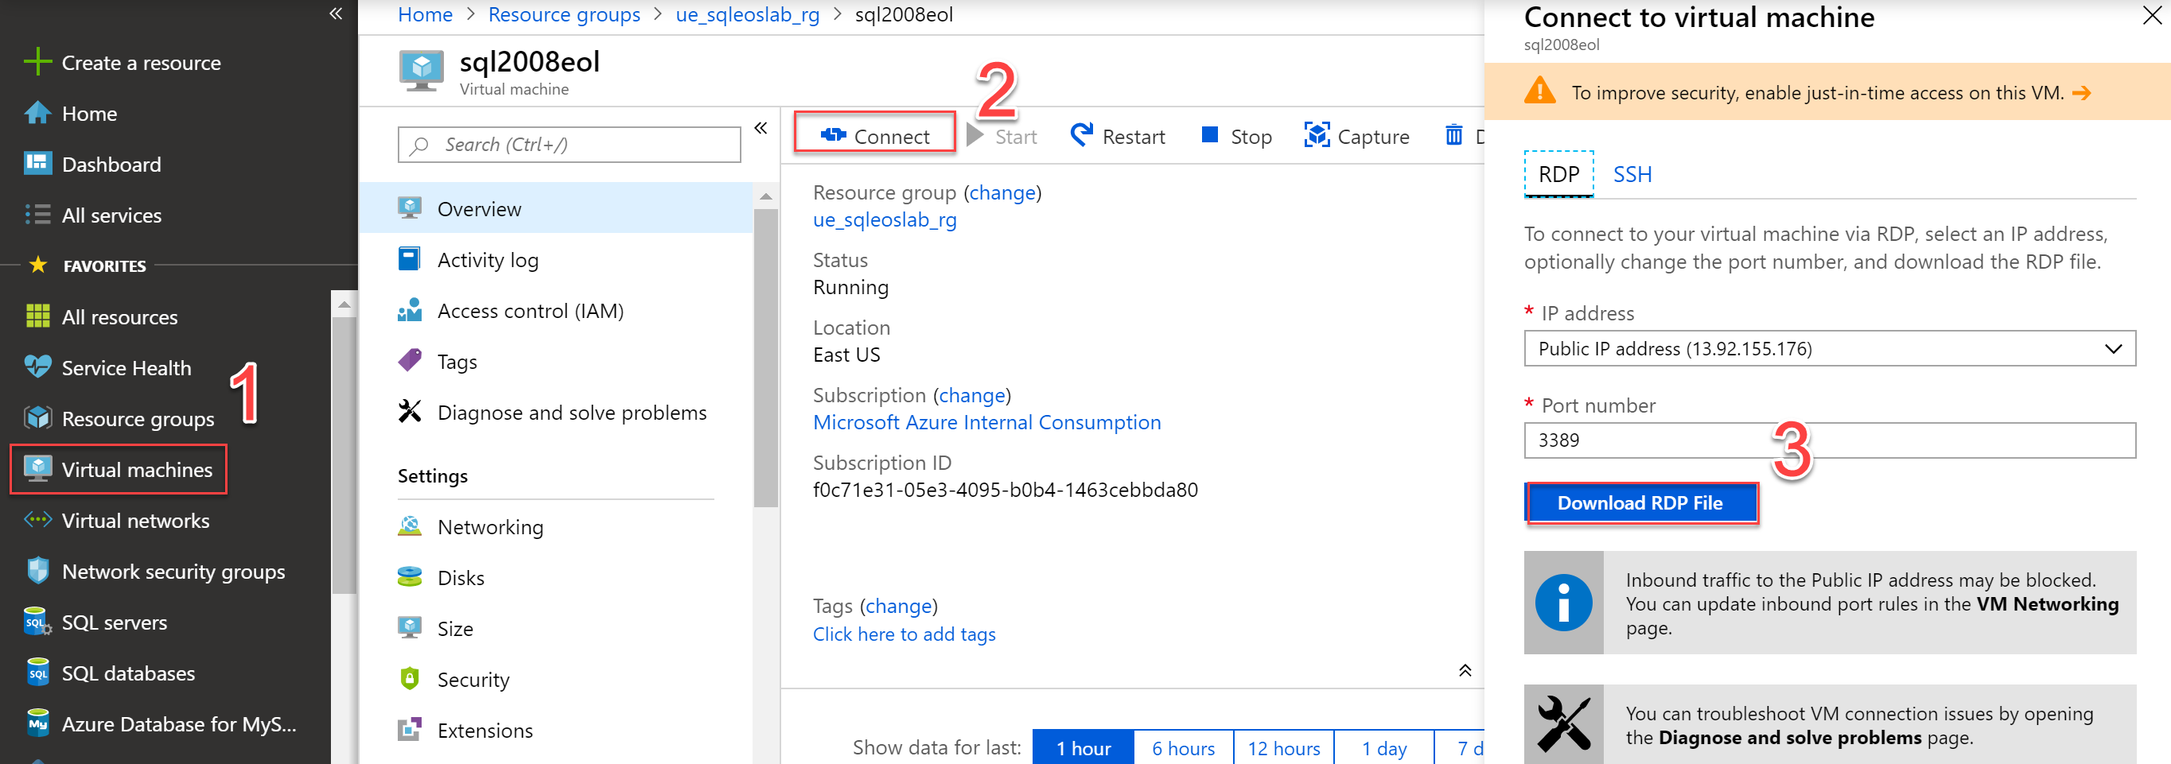
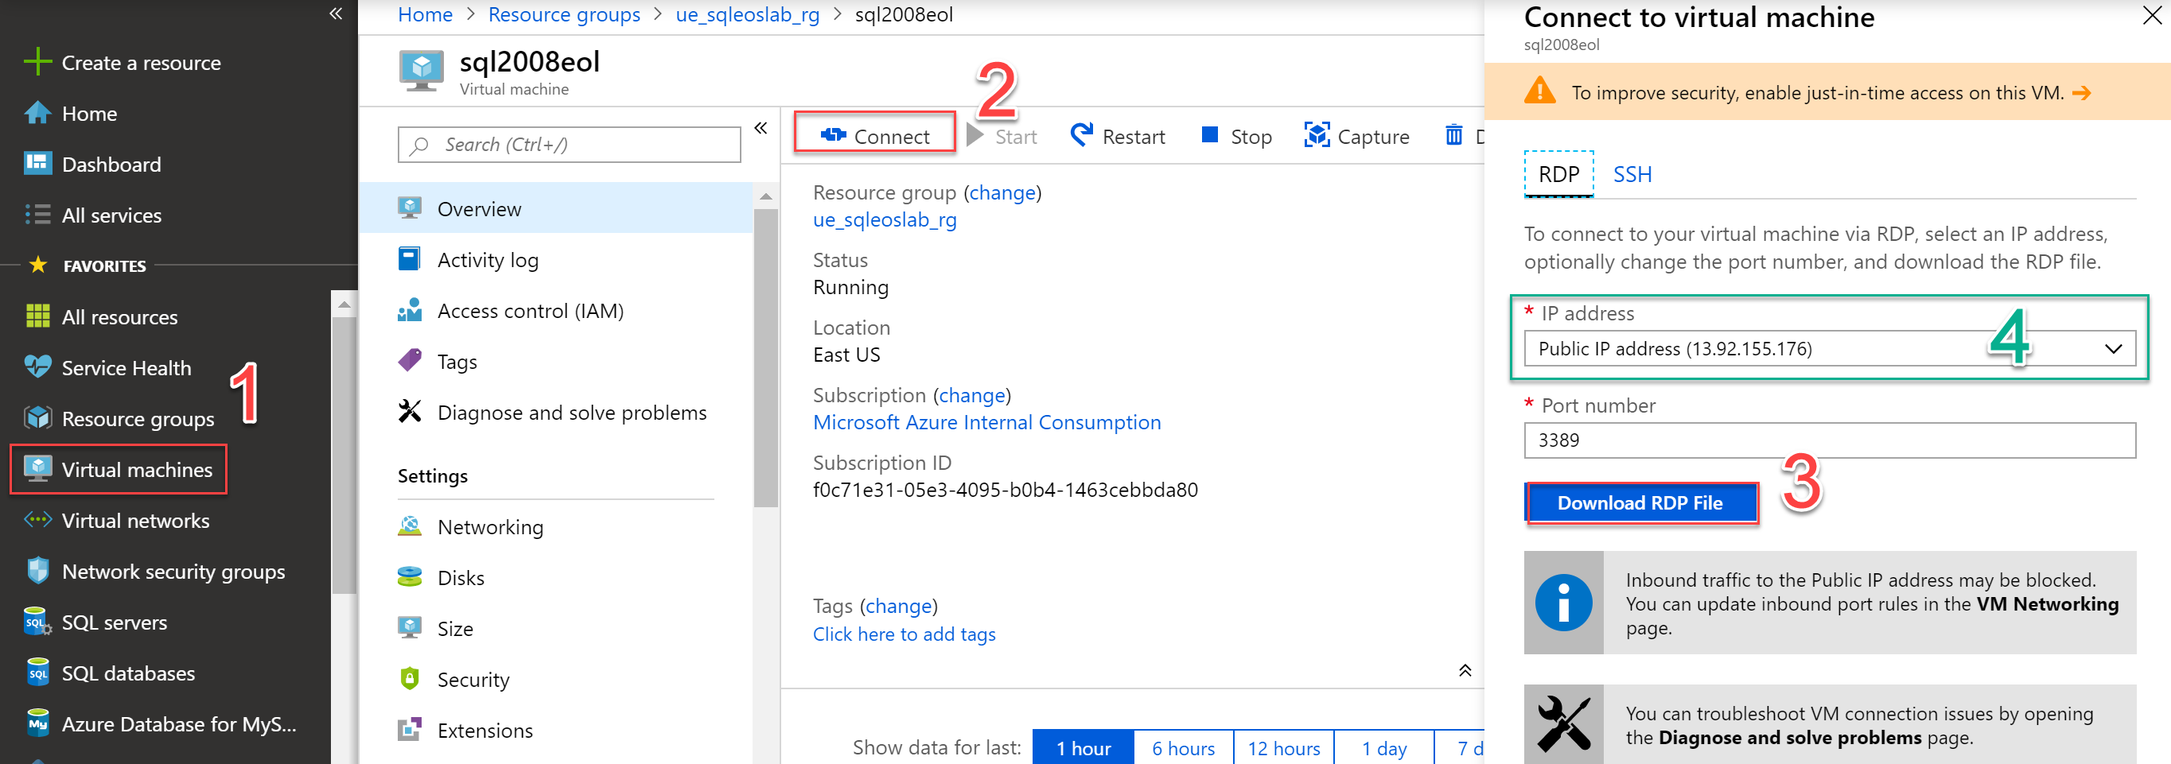
Update parameters file

Changed region(s): [[0.6852, 0.3746, 0.9967, 0.6868]]

diff --git a/Hands-on-lab/HOL step-by step - Rehost SQL Server 2008R2 on Azure SQLDB.md b/Hands-on-lab/HOL step-by step - Rehost SQL Server 2008R2 on Azure SQLDB.md
@@ -52,171 +52,136 @@ Microsoft and the trademarks listed at <https://www.microsoft.com/en-us/legal/in
 
 ## Abstract and learning objectives 
 
-In this lab you will be leveraging Azure Site Recovery to perform a lift and shift to Azure for Windows Server 2008 R2 VM hosting IIS and using the [Microsoft® SQL Server® Backup to Microsoft Azure®Tool](https://www.microsoft.com/en-us/download/details.aspx?id=40740) to stream the backup to Azure blob storage
+In this lab you will be analyzing the ContosoFinance DB for compatibility issues with Azure SQLDB leveraging the Data Migration Assistant, fixing any issues and using the Data Migration Service to perform an Online migration from SQL Server 2008R2 to Azure SQLDB
 
 ## Overview
 
-Contoso Finance runs on Windows 2008R2/ SQL 2008R2 on-premises. They purchased an **ISV** application, which requires an upgrade in order to support newer versions of SQL.
+Contoso Finance runs their CRM solution on Windows 2008R2/ SQL 2008R2 on-premises. This application was developed inhouse and their team is looking to modernize to Azure, with minimal development changes but prefer to leverage PaaS vs IaaS. 
 
-They have decided to **REHOST** the application in Azure to continue to get security and stay current as they 
-
-evaluate other ISV solutions to meet their growing business needs.
+They have decided to **REFACTOR** the application in Azure to eliminate the need to continually upgrade/patch the application and DB Server and have decided to migrate to Azure WebApps and Azure SQLDB from IIS/SQL Server 2008R2
 
 ## Solution architecture
 
-![Rehost](media/Rehost.png)
+![Rehost](media/Refactor.png)
 
 ## Requirements
 
 1.  Completed the [Before the HOL - Windows Server and SQL Server 2008 R2 EOS](https://github.com/pansaty/MCW-Windows-Server-and-SQL-Server-2008-R2-End-of-Support-Planning/blob/master/Hands-on%20lab/Before%20the%20HOL%20-%20Windows%20Server%20and%20SQL%20Server%202008%20R2%20EOS.md)
-2.  [Microsoft® SQL Server® Backup to Microsoft Azure®Tool](https://www.microsoft.com/en-us/download/details.aspx?id=40740)
-3.  Port 443 open from the SQL Server VM to *.blob.core.windows.net
 
 ## Before the hands-on lab
 
 Refer to the Before the hands-on lab setup guide manual before continuing to the lab exercises.
 
-## Exercise 1: Failover the IIS machine using ASR
-
-Duration: 15 minutes
-
-In this exercise we will be leveraging ASR to failover the IIS machine to another region to simulate failover from on-premise to Azure.
-
-### Task 1: Perform a test failover
-
-1. Open the [Azure Portal](https://www.portal.azure.com)
-
-2. Open the Recovery Vault that you created in Before the Hands-On lab
-
-3. Navigate to **Replicated items**
-
-4. Select the Windows 2008 R2 IIS VM that we protected
-
-5. Replication status should show Healthy if the environment is ready to failover, click on Test Failover
-
-   ![StatusOfReplication](media/StatusOfReplication.png)
-
-6. On the **Test failover** blade choose the latest processed recovery point and select the Azure Virtual Network you created in Task 7 of Before the Hands-On Lab, which will simulate your Azure Region
-
-7. While this is happening, you can move on to the next Exercise 
-
-
-## Exercise 2: Recover SQL Server 2008 R2 to another region via Backup/Restore
+## Exercise 1: Analyze compatibility with the Data Migration Assistant (DMA)
 
 Duration: 10 minutes
 
-To simulate building out a SQL 2008 R2 machine in Azure for migrating from on-premise to Azure, we will leverage the Gallery image for SQL Server 2008 R2.
+In this exercise we will check for and address compatibility issues with the ContosoFinance database using the DMA tool. During this lab we will only be assessing a single DB, however from the GUI you can select multiple databases from the same instance, or from the [command line](https://docs.microsoft.com/en-us/sql/dma/dma-commandline?view=sql-server-2017) you can perform an assessment across instances and leverage [PowerBI to consolidate Reports across instances](https://docs.microsoft.com/en-us/sql/dma/dma-consolidatereports?view=sql-server-2017). In addition if you are. You can also leverage DMA to [Identify the right Azure SQLDB SKU](https://docs.microsoft.com/en-us/sql/dma/dma-sku-recommend-sql-db?view=sql-server-2017)
 
-**Note:** If you have active Software Assurance and wish to bring your own license to Azure, you will need to create a custom image with SQL Server 2008 R2 media from your volume licensing site
+### Task 1: Perform an Assessment to check for compatibility issues
 
-### Task 1: Create SQL Server 2008 R2 Machine
+1. RDP to the SQL Server 2008R2 VM you created in Before the Hands-On Lab
 
-1.  Open the [Azure Portal](https://www.portal.azure.com)
+2. Download and install the Data Migration Assistant and launch
 
-2.  Click the ![CreateAResource](media/CreateAResource.png)
-3.  Search for SQL Server 2008 R2 and choose the SQL Server 2008 R2 SP3 Enterprise on Windows Server 2008 R2 image
+3. Click on the + New and use the following
 
-4.  Ensure you are creating the VM in the same resource group as the **Network created in Task 7 of Before the Hands-On lab** 
-5.  Provide a unique name
-6.  Choose the same region where you are replicating the Windows Server 2008 R2 IIS VM
-7.  Change the size of the VM to a DS11_v2 
-8.  Specify your admin Username and Password
-9.  Under Inbound port rules, only enable **RDP 3389**
-10.  On the networking page, the virtual network should be the same you created in Task 7 of Before the Hands-On Lab
-11.  Click **Review + create** and once validation is completed, click **Create**
+   1. **Project Type:**  Assessment
 
-## Exercise 3: Backup SQL Database to Storage account
+   2. **Project Name:** ContosoFinance
 
-Duration: 15 minutes
+   3. **Source server type:** SQL Server
 
-In this exercise we will be configuring the Microsoft SQL Server Backup to Microsoft Azure Tool to stream backups from local folder location on the SQL Server VM to an Azure blob storage account.
+   4. **Target server type:** Azure SQL Database. (Optionally, hit the dropdown and note the various target systems the tool supports)
 
-### Task 1: Create Azure Storage Account
+      Click **Create**
 
-1. Open the [Azure Portal](https://www.portal.azure.com)
-2. Click the ![CreateAResource](media/CreateAResource.png)
-3. Select **Storage** and choose **Storage Account**
-4. Select the same resource group that you created the SQL 2008R2 VM in Exercise 2
-5. Provide a unique storage account name
-6. For location, choose the same region as the SQL 2008R2 VM in Exercise 2
-7. Choose Standard performance tier
-8. Account Kind: default value
-9. Replication: Locally-redundant storage
-10. Click **Review + create** and once validation is completed, click **Create**
+4. On the **Options** page leave the defaults selected and click **Next**
 
-### Task 2: Create a container for backups and retrieve the Storage Account keys
+5. On the **Select sources** page enter the public IP of the SQL Server or if running DMA locally you can use **localhost**. Since TLS is not configured, uncheck **Encrypt connection** and click **Connect**
 
-1. Once the storage account is create (Should take less than a minute), navigate to the newly created storage account
+6. Select the ContosoFinance database and click **Add**, then **Start Assessment**
 
-2. Under **Blob service**, click on Blobs then click on **+ Container**
+7. After the Assessment is complete, review both the SQL Server feature parity report and compatibility issues. Although SSRS and SSAS are installing on the machine, they are not used
 
-   1. Create a container named backups and click ok
+8. Under the Compatibility Issues note the Migration Blockers, we will correct in the next excercise.
 
-3. As the Microsoft SQL Server Backup to Windows Azure Tool is an older tool, it does not support storage accounts where only Secure Transfer is enabled (default). If in your environment this is not suitable, you can leverage [AZCopy](https://docs.microsoft.com/en-us/azure/storage/common/storage-use-azcopy) to transfer the backup files to blob storage in Azure. For simplicity we will be leveraging the tool. 
+   
 
-   1. Click on configuration Set **Secure transfer required** option to disabled and click **Save**
+## Exercise 2: Migrate database to Azure SQLDB
 
-4. Under Access Keys, copy key1 to your clipboard/notepad as we will need this for the next task
+Duration: 30 minutes
 
-   ![StorageAccount](media/StorageAccount.png)
+In this exercise we will be migrating the schema and data for the ContosoFinance database from SQL Server 2008 R2 to Azure SQLDB.
 
-### Task 3: Configure Microsoft SQL Server Backup to Microsoft Azure tool
+### Task 1: Create a Logical SQL Server and Azure SQLDB to migrate to
 
-1. Within the Azure Portal, navigate to Virtual Machines
+1. Open a PowerShell command prompt and run the following to create a logical SQL Server and database to migrate to. When prompted enter your AAD credentials to login to your subscription
 
-2. Select the Source SQL Server 2008 R2 Machine created in the Before the Hands-On Labs
+   `az login` 
 
-3. Click connect to RDP into the SQL Server VM
+   `az sql server create --resource-group ue_sqleoslab_rg --name ContosoFinance --admin-user sqladmin --admin-password P@ssw0rd1234 --location eastus`
 
-4. Create a folder at the root of the C: called Backups
+   `az sql db create --name ContosoFinance --server ContosoFinance --resource-group ue_sqleoslab_rg --tier Basic` 
 
-5. Download the [Microsoft® SQL Server® Backup to Microsoft Azure®Tool](https://www.microsoft.com/en-us/download/details.aspx?id=40740)
+### Task 2: Perform a schema migration to Azure SQLDB
 
-6. Open the Microsoft® SQL Server® Backup to Microsoft Azure®Tool
+1. Relaunch the Database Migration Assistant
 
-   1. Click **Add ** on the **Rules** page
-   2. On the **Step 1 of 3** page select the  **A specific path:** radial and browse to C:\Backups. Use the file pattern *.bak and click next
-   3. On the **Step 2 of 3** page, 
-      1. Enter the storage account name create in Task 1, ex: sqleolwestus
-      2. Paste in the Access Key copied in the previous task
-      3. Enter **backups** as the **container name**
-      4. Click on **Verify account** to ensure settings are correct
-      5. Click Next
+2. Click on the + New and use the following
 
-   4. On the **Step 2 of 3** page,
-      1. Select the **Enable encryption** radial and provide a strong password
-      2. Leave **Enable compression** selected 
-      3. click **Finish**
+   1. **Project Type:**  Migration
 
-### Task 4: Backup and Restore Database
+   2. **Project Name:** ContosoFinance
 
-1.  Launch SQL Server Management Studio for the Source SQL Server 2008 R2 VM
-2.  Backup the ContosoFinance database to the folder monitored by the Microsoft® SQL Server® Backup to Microsoft Azure®Tool, i.e C:\Backups
-3.  Browse to C:\Backups and notice the backup size of only 23KB as this is only the stub file that contains the metadata of where the actual backup is on blob storage
+   3. **Source server type:** SQL Server
 
- 
+   4. **Target server type:** Azure SQL Database. 
+
+   5. **Migration Scope:** Schema Only. Note for a simple small POC, you could leverage Schema and Data.
+
+      Click **Create**
+
+3. On the **Select sources** page enter the public IP of the SQL Server or if running DMA locally you can use **localhost**. Since TLS is not configured, uncheck **Encrypt connection** and click **Connect**
+
+4. Select the ContosoFinance database and then click **Next**
+
+5. On the **Select Target** page the Assessment is complete, review both the SQL Server feature parity report and compatibility issues. Although SSRS and SSAS are installing on the machine, they are not used
+
+   *
+
+### Task 3: Leverage the Data Migration Service to migrate data from  
+
+
+
+### Task 4: Update ContosoFinance App Service to point newly migrated Azure SQLDB
+
+### (Optional) Task 5: Test online migration
+
+1. Make change in portal
+2. Make change
+
+## (Optional) Exercise 3: Security Features in Azure SQLDB to protect your Data
+
+### Task 1: Enabling Dynamic Data Masking
+
+### Task 2: Enabling Row Level Security
+
+
 
 ## After the hands-on lab 
 
-Duration: X minutes
+Duration: 5 Minutes
 
-\[insert your custom Hands-on lab content here . . .\]
+After successfully completing this lab, to conserve cost, you can remove all resources created by deleting the resource group. If you prefer to retain the artifacts created as part of this lab do not proceed to the next task
 
-### Task 1: Task name
+### Task 1: Delete resource group
 
-1. Number and insert your custom workshop content here . . .
+1. Open a PowerShell cmd prompt and run the following
 
-   a.  Insert content here
+   `az login` when prompted enter your credentiatls
 
-       i.  
+   `az group delete --name ue_sqleoslab_rg `
 
-### Task 2: Task name
-
-1. Number and insert your custom workshop content here . . .
-
-   a.  Insert content here
-
-       i.  
-
-   You should follow all steps provided *after* attending the Hands-on lab.
+You should follow all steps provided *after* attending the Hands-on lab.
 

diff --git a/Hands-on-lab/Before the HOL - Windows Server and SQL Server 2008 R2 EOS.md b/Hands-on-lab/Before the HOL - Windows Server and SQL Server 2008 R2 EOS.md
@@ -25,17 +25,7 @@ Microsoft and the trademarks listed at <https://www.microsoft.com/en-us/legal/in
 
 **Contents**
 
-<!-- TOC -->
-
-- [Windows Server and SQL Server 2008 R2 end of support planning before the hands-on lab setup guide](#Windows-Server-and-SQL-Server-2008-R2-end-of-support-planning-before-the-hands-on-lab-setup-guide)
-    - [Requirements](#requirements)
-    - [Before the hands-on lab](#before-the-hands-on-lab)
-        - [Task 1: Create a SQL 2008R2 VM in Azure ](#Task-1:-Create-a-SQL-2008R2-VM in-Azure)
-        - [Task 2: Setup the ContosoFinance Website](#Task-2:-Setup-the-ContosoFinance-Website)
-        - [Task 3: Restore the ContosoFinance Backup file](#Task-3:-Restore-the-ContosoFinance-Backup-file)
-        - [Task 4: Configure Connection string for the ContosoFinance site](#Task-4:-Configure-Connection-string-for-the-ContosoFinance-site)
-
-<!-- /TOC -->
+[TOC]
 
 # Windows Server and SQL Server 2008 R2 end of support planning before the hands-on lab setup guide 
 ## Requirements
@@ -49,49 +39,83 @@ Microsoft and the trademarks listed at <https://www.microsoft.com/en-us/legal/in
 
 Duration: 30 minutes
 
-In order to focus on the options for moving SQL to Azure, this lab will be focused primarily on tools and options for migrating database to Azure. The lab assumes that you have already refactored your application for Azure WebApps. In a scenario where you may need to keep the application intact as it were on-prem, consider using Azure Site Recovery. 
+In order to focus on the options for moving SQL to Azure, this lab will be targeted to tools and options for migrating database to Azure. The lab assumes that you have already refactored your application for Azure App Services. In a scenario where you may need to keep the application intact as it were on-prem, consider using Azure Site Recovery. 
 
 ### Task 1: Create a SQL 2008R2 VM in Azure 
 
 1. With the [Azure CLI](https://docs.microsoft.com/en-us/cli/azure/install-azure-cli?view=azure-cli-latest) installed on your machine, open a PowerShell command prompt and run the following steps to Create a SQL 2008 R2 machine
+
    1. `az login` to login to your subscription. You will be prompted for credentials to authenticate to your account via web browser.
+
    2. `az group create --name ue_sqleoslab_rg --location "East US"`  to create a resource group for all items you will be creating for this lab
-   3. `az group deployment create --resource-group ue_sqleoslab_rg --name SQL2008R2Deployment --template-file [PathToJSONTemplace]\sql2008r2VM.json  --parameters @[PathToParametersFile]\parameters.json` to deploy a SQL Server 2008R2 VM leveraging the [JSON deployment template](https://github.com/pansaty/MCW-Windows-Server-and-SQL-Server-2008-R2-End-of-Support-Planning/blob/master/Hands-on-lab/lab-files/sql2008r2VM.json) and [parameters file](https://github.com/pansaty/MCW-Windows-Server-and-SQL-Server-2008-R2-End-of-Support-Planning/blob/master/Hands-on-lab/lab-files/parameters.json) from Github
+
+   3. Ensure that you have downloaded the  [JSON deployment template](https://github.com/pansaty/MCW-Windows-Server-and-SQL-Server-2008-R2-End-of-Support-Planning/blob/master/Hands-on-lab/lab-files/sql2008r2VM.json) and [parameters file](https://github.com/pansaty/MCW-Windows-Server-and-SQL-Server-2008-R2-End-of-Support-Planning/blob/master/Hands-on-lab/lab-files/parameters.json) from Github, then leverage the below to deploy a SQL 2008 R2 IaaS VM
+
+      `az group deployment create --resource-group ue_sqleoslab_rg --name SQL2008R2Deployment --template-file [PathToJSONTemplace]\sql2008r2VM.json  --parameters @[PathToParametersFile]\parameters.json` 
+
+      **Note:** This template used a Pay As You Go with the SQL License included Image from the marketplace. If you have active SA and wish to Bring Your Own License, you will have to build a custom image and publish to your subscription
+
 2. Leave the PowerShell command running and go to the next task. It should take < 10 mins to provision this VM
 
 ### Task 2: Setup the ContosoFinance Website
 
 1. Open a new PowerShell command prompt, run the following to deploy the ContosoFinance website
-   1. `az webapp create -g ue_sqleoslab_rg -p ContosoFinance -n ContosoFinance[initials]` to create an App Service plan for your web application, replacing the [place_holders] for your resource group and WebApp name. **Note:** Your WebApp name must be universally unique.
-   2. `az webapp deployment source config-zip --resource-group [replace_with_your_resource_group] --name ContosoFinance[initials] --src [pathtozip]\ContosoFinance.zip` to deploy the ContosoFinance webapp
+   1. `az appservice plan create -g ue_sqleoslab_rg -n ContosoFinance` to create the app service plan
+   2. `az webapp create -g ue_sqleoslab_rg -p ContosoFinance -n ContosoFinance[initials]` to create an App Service plan for your web application, replacing the [place_holders] for your resource group and WebApp name. **Note:** Your WebApp name must be universally unique.
+   3. `az webapp deployment source config-zip --resource-group ue_sqleoslab_rg --name ContosoFinance[initials] --src [pathtozip]\ContosoFinance.zip` to deploy the ContosoFinance webapp
 2. Close the PowerShell command prompt
 
 ### Task 3: Restore the ContosoFinance  SQL Server Backup file
 
-This task is also representative of the effort needed to lift and shift a SQL Server 2008R2 instance from on-prem to Azure leveraging a backup/restore methodology. This can be enhanced using the [Microsoft® SQL Server® Backup to Microsoft Azure®Tool](https://www.microsoft.com/en-us/download/details.aspx?id=40740) to backup directly from On-Prem SQL Server to Azure blob storage, however this will require port 443 open from all source SQL Server instances. If this is not an option, you can backup to a central server and then leverage azcopy from a central server to copy backups to Azure blob storage. In addition if you were looking to do a minimal downtime migration for lift and shift where the target in Azure needs to be a SQL Server 2008 R2 instance, you could explore leveraging log shipping.
+This task is representative of the effort needed to lift and shift a SQL Server 2008R2 instance from on-prem to Azure leveraging a backup/restore methodology. This can be enhanced using the [Microsoft® SQL Server® Backup to Microsoft Azure®Tool](https://www.microsoft.com/en-us/download/details.aspx?id=40740) to backup directly from On-Prem SQL Server to Azure blob storage, however this will require port 443 open from all source SQL Server instances. If this is not an option, you can backup to a central server and then leverage azcopy from a central server to copy backups to Azure blob storage. In addition if you were looking to do a minimal downtime migration for lift and shift where the target in Azure needs to be a SQL Server 2008 R2 instance, you could explore leveraging log shipping.
 
 1. Login to the [Azure Portal](https://portal.azure.com)
 
-2. Navigate to Virtual Machines and download the RDP file for the SQL 2008 R2 VM created in Task 1 and login to it using the credentials from the parameters.json file. If the parameters file is unchanged, use username: **sql2008admin** and password: **P@ssw0rd1234**
+2. Navigate to Virtual Machines and download the RDP file for the SQL 2008 R2 VM created in Task 1 and login to it using the credentials from the parameters.json file. If the parameters file is unchanged, use username: **sql2008admin** and password: **P@ssw0rd1234**. Make note of the Public IP address (4).
 
    ![ConnectToVM](media/ConnectToVM.png)
 
 3. Download the [ContosoFinance.bak](https://github.com/pansaty/MCW-Windows-Server-and-SQL-Server-2008-R2-End-of-Support-Planning/blob/master/Hands-on-lab/lab-files/ContosoFinance.bak) file from GitHub and restore it to the newly created SQL 2008R2 VM. **Note:** In a real migration scenario from on-prem, you could stage the backup file in an Azure blob storage account. 
 
-4. Launch SSMS and run the following to create a login for the application
+4. Enable SQL Authentication and restart the SQL Services. If you are not sure how to do this see [here](https://docs.microsoft.com/en-us/sql/database-engine/configure-windows/change-server-authentication-mode?view=sql-server-2017)
 
-   `create login AppUser`
+5. Launch SSMS and run the following to create a login for the application and grant permissions needed
 
-   `create user from login AppUser`
+   `USE [master]
+   GO
+   CREATE LOGIN [AppUser] WITH PASSWORD=N'P@ssw0rd1234', DEFAULT_DATABASE=[ContosoFinance], CHECK_EXPIRATION=OFF, CHECK_POLICY=OFF
+   GO
+   Use [ContosoFinance]
+   GO
+   CREATE USER [AppUser] From Login [AppUser]
+   GO
+   exec sp_addrolemember [db_datareader] , [AppUser]
+   exec sp_addrolemember [db_datawriter] , [AppUser]
+   GRANT EXECUTE on [dbo].[GetEngineEdition] to [AppUser]
+   GRANT EXECUTE on [dbo].[usp_CustomerWithNoVisits] to [AppUser]
+   GO`
 
-   `Grant AppRole to AppUser`
+6. Create a firewall rule to allow inbound on port 1433. If you are not sure how to do this see [here](https://docs.microsoft.com/en-us/sql/database-engine/configure-windows/configure-a-windows-firewall-for-database-engine-access?view=sql-server-2017)
 
 ### Task 4: Configure Connection string for the ContosoFinance site
 
 1. Within the [Azure Portal](https://portal.azure.com) navigate to Azure Websites
-2. Open application Settings
-3. Update the connection string leveraging the SQL Server 2008 R2 instance created in Task1 and login credentials created in in Task 2
-4. Go to the Overview page of the the Azure **** and launch ****. If all the configuration steps were completed successfully the ContosoFinance website will launch successfully
+
+2. Open App Services(1)->You Web App deployed in Task 2 (2) ->Configuration (Preview) (3) -> Application Settings (4) -> + New Connection (5)
+
+   ![AppServicesConfig](media/AppServicesConfig.png)
+
+3. Add a New Connection String
+
+   1. Name: `DefaultConnection`
+   2. Value: `Data Source=[Public IP of SQL VM]; Initial Catalog=contosofinance; User ID=AppUser;Password=P@ssw0rd1234`.
+   3. Type: `SQLServer`
+
+4. Go to the Overview page of the ContosoFinance App Service and click on the URL ex: https://contosofinancepss.azurewebsites.net
+
+5. ContosoFinance website will launch successfully if configuration steps completed successfully, take note of the SQL Version listed. 
+
+   ![ContosoFinance](media/ContosoFinance.png)
 
 
 
